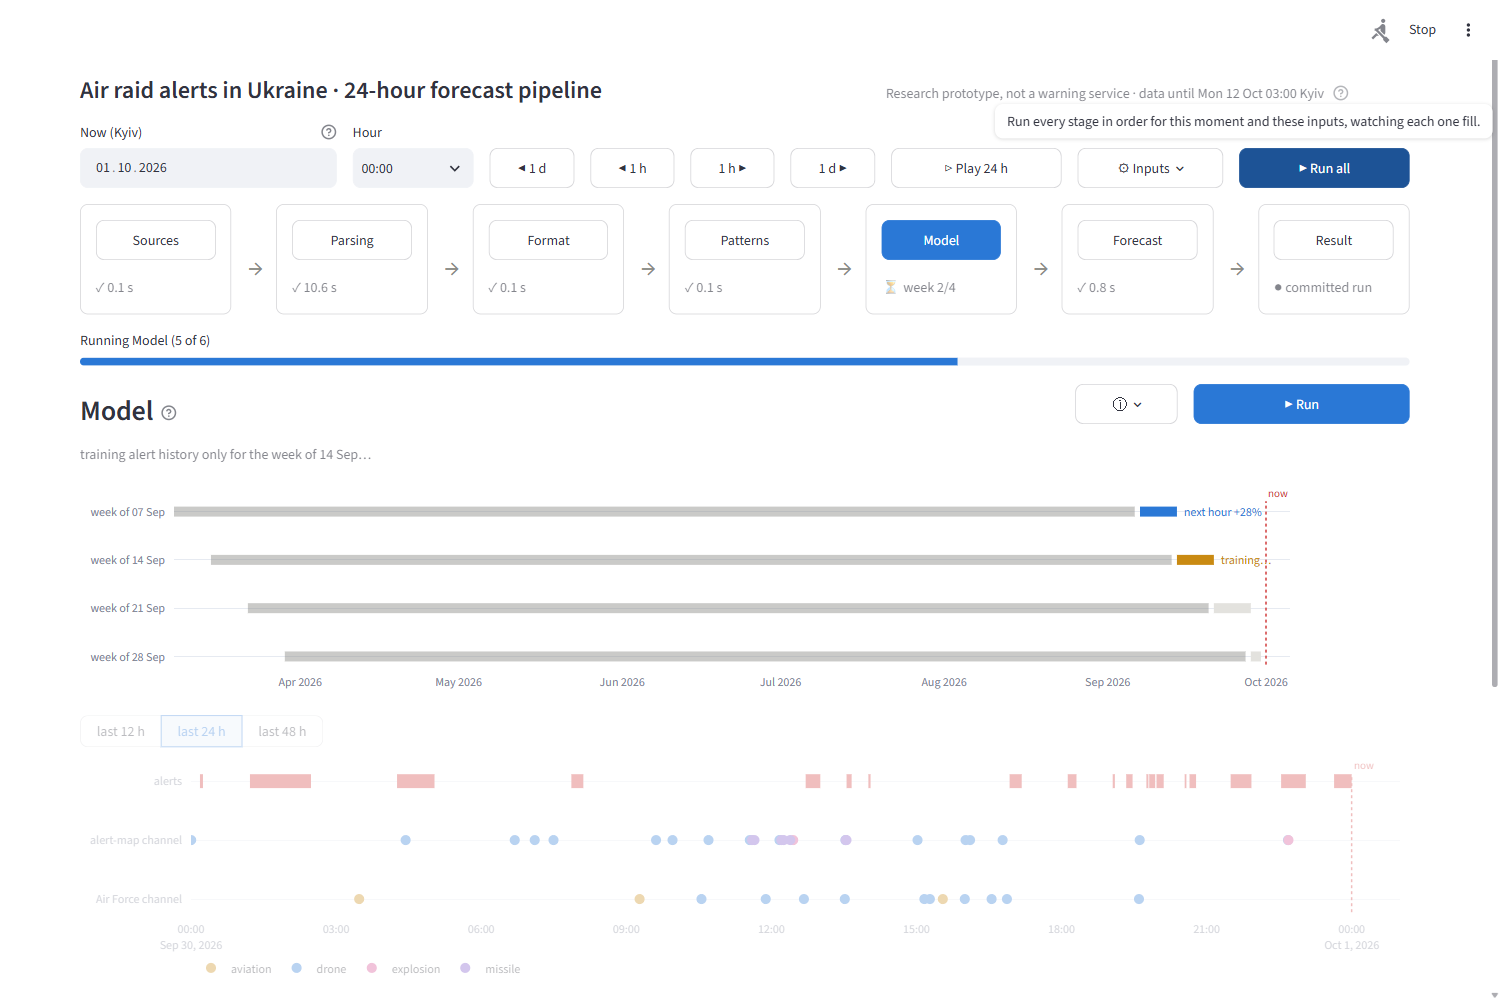
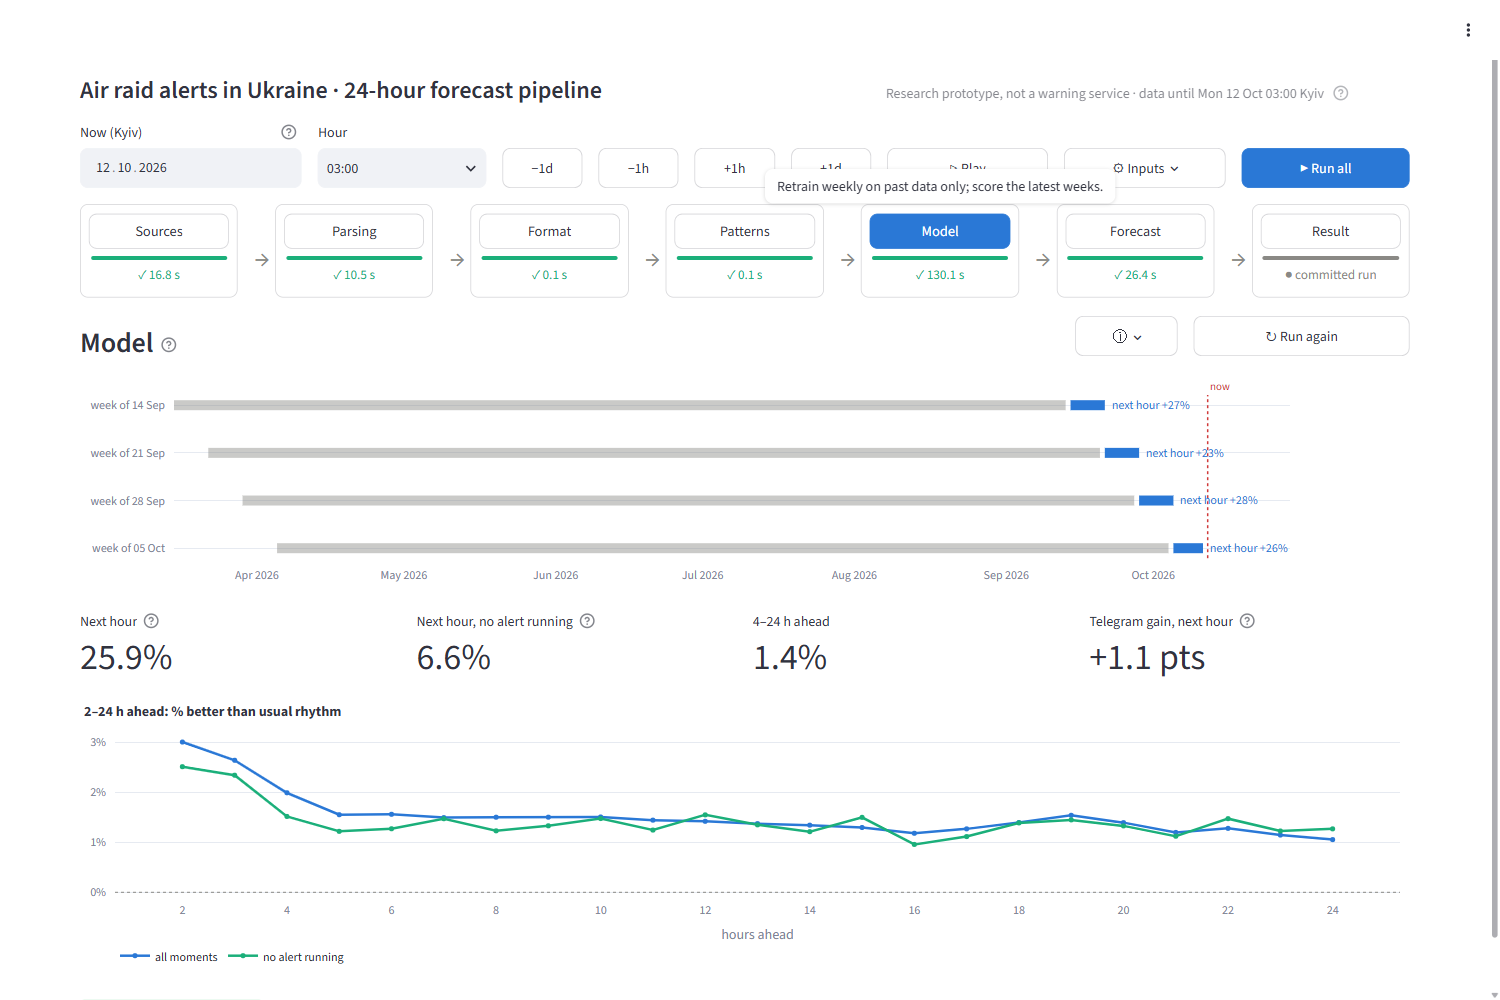
Polish the pipeline strip and fix issues found in a Playwright review
User-reported:
- Nodes keep one size: fixed one-line status, cut with an ellipsis
- Colour status: a bar and text per node (grey not run, blue running,
  green done, orange run again), drawn in one element so they never disagree
- Charts are read-only: zoom had no way back without the hidden toolbar
- Model/Forecast say "models reused" when trained models were reused

Found by the review (light/dark, 800-1500 px):
- dict.get default evaluated eagerly crashed the strip for unrun stages
- Stage names broke mid-word and the strip wrapped at 1000 px; step buttons
  were cut; status text touched the box edges
- An out-of-date Model view drew the current clock's weeks with the old
  run's scores; it now draws the weeks the run covered
- Page-wide colour styles went stale between Run all steps
- The inputs button reads "Changed" when settings differ from the committed run

diff --git a/airraid/gui/views.py b/airraid/gui/views.py
@@ -25,7 +25,15 @@ STRIP: dict = {}  # stage -> status slot in the pipeline strip, filled live duri
 CSS = """<style>
 [data-testid="stMainBlockContainer"], .block-container {padding-top: 4.2rem; padding-bottom: 2rem;}
 .arrow {text-align: center; font-size: 1.5rem; color: #8a8985; line-height: 1;}
-[data-testid="stVerticalBlockBorderWrapper"] [data-testid="stCaptionContainer"] {text-align: center;}
+.st-key-strip [data-testid="stHorizontalBlock"] {flex-wrap: nowrap !important;}
+.st-key-strip [data-testid="stColumn"] {min-width: 0 !important;}
+[class*="st-key-nodebox_"] {padding: 0.55rem 0.5rem 0.85rem !important; gap: 0.45rem !important; min-width: 0;}
+[class*="st-key-nodebox_"] [data-testid="stMarkdownContainer"] {width: 100%; margin: 0; padding: 0;}
+[class*="st-key-nodebox_"] button {padding: 0.3rem 0.2rem; min-height: 2.2rem; min-width: 0; max-width: 100%;}
+[class*="st-key-nodebox_"] button div, [class*="st-key-nodebox_"] button p {min-width: 0; max-width: 100%;}
+[class*="st-key-nodebox_"] button p {font-size: 0.9rem; white-space: nowrap; overflow: hidden; text-overflow: ellipsis;}
+.st-key-topbar [data-testid="stColumn"] {min-width: 0 !important;}
+.st-key-topbar button {padding-left: 0.3rem; padding-right: 0.3rem;}
 </style>"""
 
 ABOUT = {
@@ -78,6 +86,7 @@ ABOUT = {
   forecast by a model trained only on earlier data. Ranges are 95%, from resampling whole days.
 - **% better**: Brier skill score against the usual daily rhythm. **No alert running**: moments when the region
   had no alert at forecast time, i.e. "will a new one start?".
+- Zakarpattia is left out of the region chart: it had no alerts in the test weeks, so there is nothing to beat.
 - Limits: the target is one volunteer record; beyond a few hours the forecast stays close to the usual daily
   rhythm; Ivano-Frankivsk and Chernihiv were worse than it in the test weeks; live posts cannot be used yet.""",
 }
@@ -109,17 +118,22 @@ def top_bar() -> dict:
     a.markdown("#### Air raid alerts in Ukraine · 24-hour forecast pipeline")
     b.caption(f"Research prototype, not a warning service · data until {C.kyiv(C.LAST)} Kyiv",
               help="A replay of the last eight weeks of real data. Always follow official air raid alerts.")
-    c = st.columns([2.2, 1.1, 0.8, 0.8, 0.8, 0.8, 1.5, 1.3, 1.5], vertical_alignment="bottom")
+    c = st.container(key="topbar").columns([1.75, 1.35, 0.7, 0.7, 0.7, 0.7, 1.3, 1.3, 1.35],
+                                            vertical_alignment="bottom")
     c[0].date_input("Now (Kyiv)", key="clock_day", min_value=C.FIRST.tz_convert(C.KYIV).date(),
                     max_value=C.LAST.tz_convert(C.KYIV).date(), on_change=_clock_from_widgets, format="DD.MM.YYYY",
                     help="The replay clock: every stage sees only what was published before this moment.")
     c[1].selectbox("Hour", list(range(24)), key="clock_hour", format_func=lambda h: f"{h:02d}:00",
                    on_change=_clock_from_widgets)
-    for col, (label, hours) in zip(c[2:6], (("◀ 1 d", -24), ("◀ 1 h", -1), ("1 h ▶", 1), ("1 d ▶", 24))):
-        col.button(label, on_click=_step, args=(hours,), use_container_width=True, key=f"step_{hours}")
-    play = c[6].button("▷ Play 24 h", use_container_width=True,
+    for col, (label, hours) in zip(c[2:6], (("−1d", -24), ("−1h", -1), ("+1h", 1), ("+1d", 24))):
+        col.button(label, on_click=_step, args=(hours,), use_container_width=True, key=f"step_{hours}",
+                   help=f"Move the clock {'back' if hours < 0 else 'forward'} {abs(hours) // 24 or abs(hours)} "
+                        f"{'day' if abs(hours) == 24 else 'hour'}")
+    play = c[6].button("▷ Play", use_container_width=True,
                        help="Step the clock an hour at a time for a day and watch the forecast update. Any click stops it.")
-    with c[7].popover("⚙ Inputs", use_container_width=True):
+    changed = C.settings() != P.Settings() or st.session_state.get("n_weeks") != C.DEFAULTS["n_weeks"]
+    with c[7].popover("⚙ Changed" if changed else "⚙ Inputs", use_container_width=True,
+                      help="Inputs differ from the committed run" if changed else "Telegram channels and model settings"):
         st.caption("The alert history is always used: it is what is forecast.")
         for ch, name in C.CHANNELS.items():
             st.toggle(f"{name.capitalize()} (@{ch})", key=f"ch_{ch}")
@@ -133,29 +147,40 @@ def top_bar() -> dict:
     return {"play": play, "run_all": run_all}
 
 
-def node_status(stage: str, text: str | None = None) -> None:
+STATE_COLOR = {"not run": "#a3a29e", "running": C.BLUE, "done": C.AQUA, "out of date": "#e07b1a", "result": C.GREY}
+def node_status(stage: str, text: str | None = None, state: str | None = None) -> None:
     if text is None:
+        r = C.runs().get(stage)
         if stage == "result":
-            text = "● committed run"
+            state, text = "result", "● committed run"
         else:
-            state, r = C.status(stage), C.runs().get(stage)
-            text = f"✓ {r['seconds']:.1f} s" if state == "done" else {"not run": "○ not run", "out of date": "⚠ run again"}[state]
-    STRIP[stage].caption(text)
+            state = C.status(stage)
+            if state == "done":
+                text = f"✓ {r['seconds']:.1f} s" + (f" · {r['note']}" if r.get("note") else "")
+            else:
+                text = {"not run": "○ not run", "out of date": "⚠ run again"}[state]
+    # Colour bar and text in one element, so they always change together; one line, cut with "…",
+    # so every node keeps the same height.
+    color = STATE_COLOR[state]
+    STRIP[stage].markdown(
+        f"<div style='padding:0 2px'><div style='height:4px;border-radius:2px;background:{color};margin:0 0 6px 0'></div>"
+        f"<div title='{text}' style='color:{color};font-size:0.82rem;line-height:1.3;text-align:center;"
+        f"white-space:nowrap;overflow:hidden;text-overflow:ellipsis'>{text}</div></div>", unsafe_allow_html=True)
 
 
 def running(stage: str, text: str) -> None:
-    node_status(stage, f"⏳ {text}")
+    node_status(stage, f"⏳ {text}", "running")
 
 
 def strip():
     widths = []
     for i in range(len(ORDER)):
-        widths += [3, 0.5] if i < len(ORDER) - 1 else [3]
-    cols = st.columns(widths, vertical_alignment="center")
+        widths += [3, 0.35] if i < len(ORDER) - 1 else [3]
+    cols = st.container(key="strip").columns(widths, vertical_alignment="center")
     sel = C.selected()
     for i, stage in enumerate(ORDER):
         title, tip = C.STAGES[stage]
-        with cols[2 * i].container(border=True):
+        with cols[2 * i].container(border=True, key=f"nodebox_{stage}"):
             st.button(title, key=f"node_{stage}", on_click=C.select, args=(stage,), help=tip,
                       use_container_width=True, type="primary" if stage == sel else "secondary")
             STRIP[stage] = st.empty()
@@ -563,7 +588,7 @@ def v_model(run: bool) -> None:
         with st.spinner("Building features from the data known at 'now'…"):
             running("model", "features")
             fs = C.features_now(s)
-        out = []
+        out, reused = [], sum(C.has_models(s, w) for w, _ in blocks)
         for i, (w, end) in enumerate(blocks):
             states[w], labels[w] = "training", "training…"
             with chart.container():
@@ -573,7 +598,9 @@ def v_model(run: bool) -> None:
             out.append(pred)
             states[w], labels[w] = "done", week_skill(pred)
         log.empty()
-        C.record("model", time.time() - t0, out=pd.concat(out, ignore_index=True))
+        C.record("model", time.time() - t0, out=pd.concat(out, ignore_index=True),
+                 note="models reused" if reused == len(blocks) else "")
+        C.runs()["model"].update(blocks=blocks, t=t, s=s)  # what this run covered, to draw it as it was
     r = C.runs().get("model")
     if r is None:
         with chart.container():
@@ -581,6 +608,7 @@ def v_model(run: bool) -> None:
         hint(f"Run trains {2 if s.channels else 1} model(s) per week on the data before it and scores its forecasts.")
         return
     pred = r["out"]
+    blocks, t, s = r.get("blocks", blocks), r.get("t", t), r.get("s", s)  # the run as made, even if out of date
     starts = [w for w, _ in blocks]
     pos = pd.DatetimeIndex(starts).searchsorted(pred["t"], side="right") - 1
     labels = {starts[i]: week_skill(g) for i, g in pred.groupby(pos)}
@@ -588,6 +616,10 @@ def v_model(run: bool) -> None:
         C.show(walk_chart(s, t, blocks, {w: "done" for w in labels}, labels))
     if C.status("model") == "out of date":
         st.caption("⚠ The clock or the inputs changed since this run.")
+    elif r.get("note"):
+        st.markdown(":gray-badge[♻ models reused]", help="A week's model depends only on the data before that week, "
+                    "never on the clock, so models trained in an earlier run (by anyone using this app) are kept and "
+                    "reused; this run only built the features and scored the forecasts.")
     q = pred[pred["active_now"] == 0]
     h1, q1, longer = pred[pred["h"] == 1], q[q["h"] == 1], pred[pred["h"] >= 4]
     m = st.columns(4)
@@ -601,7 +633,7 @@ def v_model(run: bool) -> None:
                 help="Telegram model minus alert-history model, moments with no alert running")
     rows = []
     for subset, g in (("all moments", pred), ("no alert running", q)):
-        for h, gh in g.groupby("h"):
+        for h, gh in g[g["h"] >= 2].groupby("h"):
             rows.append({"subset": subset, "h": h, "skill": C.skill(gh["y"], gh["p_main"], gh["p_climatology"])})
     tab = pd.DataFrame(rows)
     same = pred.merge(C.ref()["pred"][["t", "region", "h", "p_main"]], on=["t", "region", "h"], suffixes=("", "_ref"))
@@ -613,7 +645,7 @@ def v_model(run: bool) -> None:
     fig.add_hline(y=0, line=dict(color=C.GREY, width=1, dash="dot"))
     fig.update_layout(legend=dict(orientation="h", y=-0.3), xaxis=dict(title="hours ahead", dtick=2),
                       yaxis=dict(tickformat=".0%"))
-    C.show(C.small(fig, 280, "% better than the usual daily rhythm, by hours ahead"))
+    C.show(C.small(fig, 280, "2–24 h ahead: % better than usual rhythm"))
     if len(same):
         diff = float((same["p_main"] - same["p_main_ref"]).abs().max())
         ok = diff < 1e-6
@@ -657,11 +689,13 @@ def compute_forecast(say) -> None:
     t0 = time.time()
     fs = C.features_now(s)
     week = P.week_of(s.config(), t)
+    cached = C.has_models(s, week)
     short, long = C.models(fs, s, week, log=lambda m: (say(m), running("forecast", "training")))
     fc = P.predict(fs, s, short, long, t, t + P.HOUR)
     so_far = (P.predict(fs, s, short, long, week, t - pd.Timedelta(hours=23)).dropna(subset=["y"])
               if t - pd.Timedelta(hours=23) > week else pd.DataFrame())
-    C.record("forecast", time.time() - t0, out={"fc": fc, "so_far": so_far, "week": week})
+    C.record("forecast", time.time() - t0, out={"fc": fc, "so_far": so_far, "week": week},
+             note="model reused" if cached else "")
 
 
 def draw_forecast(map_slot, side_slot, h: int, rhythm: bool, hindsight: bool, region: int) -> None:
@@ -740,19 +774,20 @@ def decision(test: pd.DataFrame) -> None:
     q = test[(test["h"] == 1) & (test["active_now"] == 0)]
     days = q["t"].dt.floor("D").nunique()
     thr = st.slider("Warn a region when the chance of a new alert next hour is at least", 0.05, 0.9, 0.3, 0.05,
-                    help="Test weeks, moments with no alert running. Both rows raise the same number of warnings.")
+                    key="warn_thr")
     n = int((q["p_main"] >= thr).sum())
+    st.caption(f"{n / days:.0f} warnings a day for both rows", help="Test weeks, moments with no alert running. The "
+               "usual daily rhythm gets the same number of warnings (its top picks), so the rows compare where each "
+               "one puts them.")
     rows = []
     for col, label in (("p_main", "Forecast"), ("p_climatology", "Usual daily rhythm")):
         warn = q[col].rank(method="first", ascending=False) <= n  # same number of warnings for both
         hit = (warn & (q["y"] == 1)).sum()
         rows.append({"based on": label, "alerts caught": hit / max((q["y"] == 1).sum(), 1),
-                     "warnings / day": warn.sum() / days, "false alarms / day": (warn & (q["y"] == 0)).sum() / days,
-                     "came true": hit / max(warn.sum(), 1)})
+                     "false alarms / day": (warn & (q["y"] == 0)).sum() / days, "came true": hit / max(warn.sum(), 1)})
     st.dataframe(pd.DataFrame(rows), hide_index=True, column_config={
         "alerts caught": st.column_config.NumberColumn(format="percent"),
         "came true": st.column_config.NumberColumn(format="percent"),
-        "warnings / day": st.column_config.NumberColumn(format="%.0f"),
         "false alarms / day": st.column_config.NumberColumn(format="%.0f")})
 
 
@@ -786,7 +821,7 @@ def v_result(run: bool) -> None:
         fig.add_hline(y=0, line=dict(color=C.GREY, width=1, dash="dot"))
         fig.update_layout(legend=dict(orientation="h", y=-0.3), xaxis=dict(title="hours ahead", dtick=2),
                           yaxis=dict(tickformat=".0%"))
-        C.show(C.small(fig, 300, "2–24 hours ahead: % better than the usual daily rhythm (95% band)"))
+        C.show(C.small(fig, 300, "2–24 h ahead: % better than usual rhythm"))
     with b:
         fig = go.Figure()
         for period, color, dash in (("validation", C.GREY, "dash"), ("test", C.BLUE, "solid")):
@@ -802,7 +837,7 @@ def v_result(run: bool) -> None:
         fig.add_vline(x=SHORT_HORIZON + 0.5, line=dict(color=C.GREY, width=1))
         fig.update_layout(legend=dict(orientation="h", y=-0.3), xaxis=dict(title="hours ahead", dtick=2),
                           yaxis=dict(tickformat="+.1%"))
-        C.show(C.small(fig, 300, "What Telegram adds (no alert running) → used up to 3 h ahead"))
+        C.show(C.small(fig, 300, "What Telegram adds → used up to 3 h"))
     a, b = st.columns([3, 2])
     with a:
         decision(test)
@@ -814,7 +849,7 @@ def v_result(run: bool) -> None:
                                marker_color=np.where(br["brier_skill"] > 0, C.BLUE, C.GREY),
                                hovertemplate="%{y}: %{x:.1%}<extra></extra>"))
         fig.update_layout(xaxis=dict(tickformat=".0%"), yaxis=dict(tickfont=dict(size=10)))
-        C.show(C.small(fig, 420, "By region (grey = worse than the rhythm; Zakarpattia had no alerts)"))
+        C.show(C.small(fig, 420, "By region (grey = worse than rhythm)"))
     r = C.runs().get("model")
     if r is not None and len(r["out"]):
         st.caption("Stage 5 holds your own run of the model with the current inputs; this page is the committed run.")

diff --git a/airraid/gui/common.py b/airraid/gui/common.py
@@ -23,7 +23,8 @@ GEOJSON = paths.ASSETS / "ukraine_adm1.geojson"
 KYIV = "Europe/Kyiv"
 CFG = Config()
 FIRST, LAST = CFG.val_start, CFG.data_end  # the replay clock moves inside the validation and test weeks
-NO_TOOLBAR = {"displayModeBar": False}
+# Read-only charts: no toolbar, no zoom (a zoom without its reset button cannot be undone); hover stays.
+NO_TOOLBAR = {"displayModeBar": False, "scrollZoom": False, "doubleClick": False}
 CHANNELS = {"povitryanatrivogaaa": "alert-map channel", "kpszsu": "Air Force channel"}
 SOURCE_NAMES = {"etryvoga": "Alert history", "kpszsu": "Air Force", "povitryanatrivogaaa": "Alert map"}
 
@@ -91,8 +92,8 @@ def runs() -> dict:
     return st.session_state.setdefault("runs", {})
 
 
-def record(stage: str, seconds: float, out=None) -> None:
-    runs()[stage] = {"sig": signature(stage), "seconds": seconds, "out": out}
+def record(stage: str, seconds: float, out=None, note: str = "") -> None:
+    runs()[stage] = {"sig": signature(stage), "seconds": seconds, "out": out, "note": note}
 
 
 def status(stage: str) -> str:
@@ -234,7 +235,9 @@ _KEYS = {"n": 0}
 def show(fig, height=None):
     """Plotly chart without toolbar; a fresh key each call so live updates can redraw the same slot."""
     _KEYS["n"] += 1
-    fig.update_layout(paper_bgcolor="rgba(0,0,0,0)", plot_bgcolor="rgba(0,0,0,0)")
+    fig.update_layout(paper_bgcolor="rgba(0,0,0,0)", plot_bgcolor="rgba(0,0,0,0)", dragmode=False)
+    fig.update_xaxes(fixedrange=True)
+    fig.update_yaxes(fixedrange=True)
     if height:
         fig.update_layout(height=height)
     st.plotly_chart(fig, use_container_width=True, config=NO_TOOLBAR, key=f"fig{_KEYS['n']}")

diff --git a/README.md b/README.md
@@ -10,15 +10,17 @@ The GUI is the pipeline itself: the stages as clickable nodes, a **replay clock*
 hour of the last eight weeks, and every stage sees only what was published before it), and each stage
 drawing its data as it runs.
 
-![The pipeline while it runs](docs/screenshots/01_pipeline_running.png)
+![The pipeline after a run](docs/screenshots/01_pipeline_running.png)
 
-*Run all, at the Model stage: earlier stages are done (✓ with their time), the week of 7 Sep is scored
-(next hour +28 % against the usual daily rhythm), the week of 14 Sep is training.*
+*After ▶ Run all: every stage done (green bar, time). The Model view shows each week's model: what it was
+trained on (grey), the week it forecast (blue) and its next-hour score. While a stage runs its bar is
+blue and its view fills live; a stage whose inputs changed turns orange.*
 
-![Forecast after playing a day](docs/screenshots/02_forecast.png)
+![Forecast at a replay moment](docs/screenshots/02_forecast.png)
 
-*Forecast at 1 Oct 00:00 after ▷ Play stepped through the previous day: the chance of an alert per
-region, the outcome in hindsight (red outlines), and the week's forecasts checked so far.*
+*Forecast at 30 Sep 00:00 (an example "missed forecast" from the test weeks), with the outcome in
+hindsight (red outlines) and the week's forecasts checked so far. The clock moved, so Model asks to
+run again; the forecast reused that week's model.*
 
 ## Results (test period, 14 Sep – 12 Oct 2026, 380k forecasts)
 
@@ -85,8 +87,9 @@ live in tooltips and each stage's ⓘ.
 | Result | findings with 95 % ranges, what Telegram adds, warnings vs false alarms, regions | |
 
 **Run** runs one stage; **▶ Run all** runs them in order (about 2–3 minutes the first time, most of it
-training); **⚙ Inputs** switches the Telegram channels and model settings, and the stages that depend on
-them are marked "run again". Trained models are kept, so going back to a week costs nothing. With the
+training); **⚙ Inputs** switches the Telegram channels and model settings (the button reads "⚙ Changed"
+when they differ from the committed run), and the stages that depend on them are marked "run again".
+Charts are read-only (hover for values). Trained models are kept, so going back to a week costs nothing. With the
 committed settings the app's forecasts match `results/predictions.parquet` to 3·10⁻⁸
 (`tests/test_replay.py`).
 
